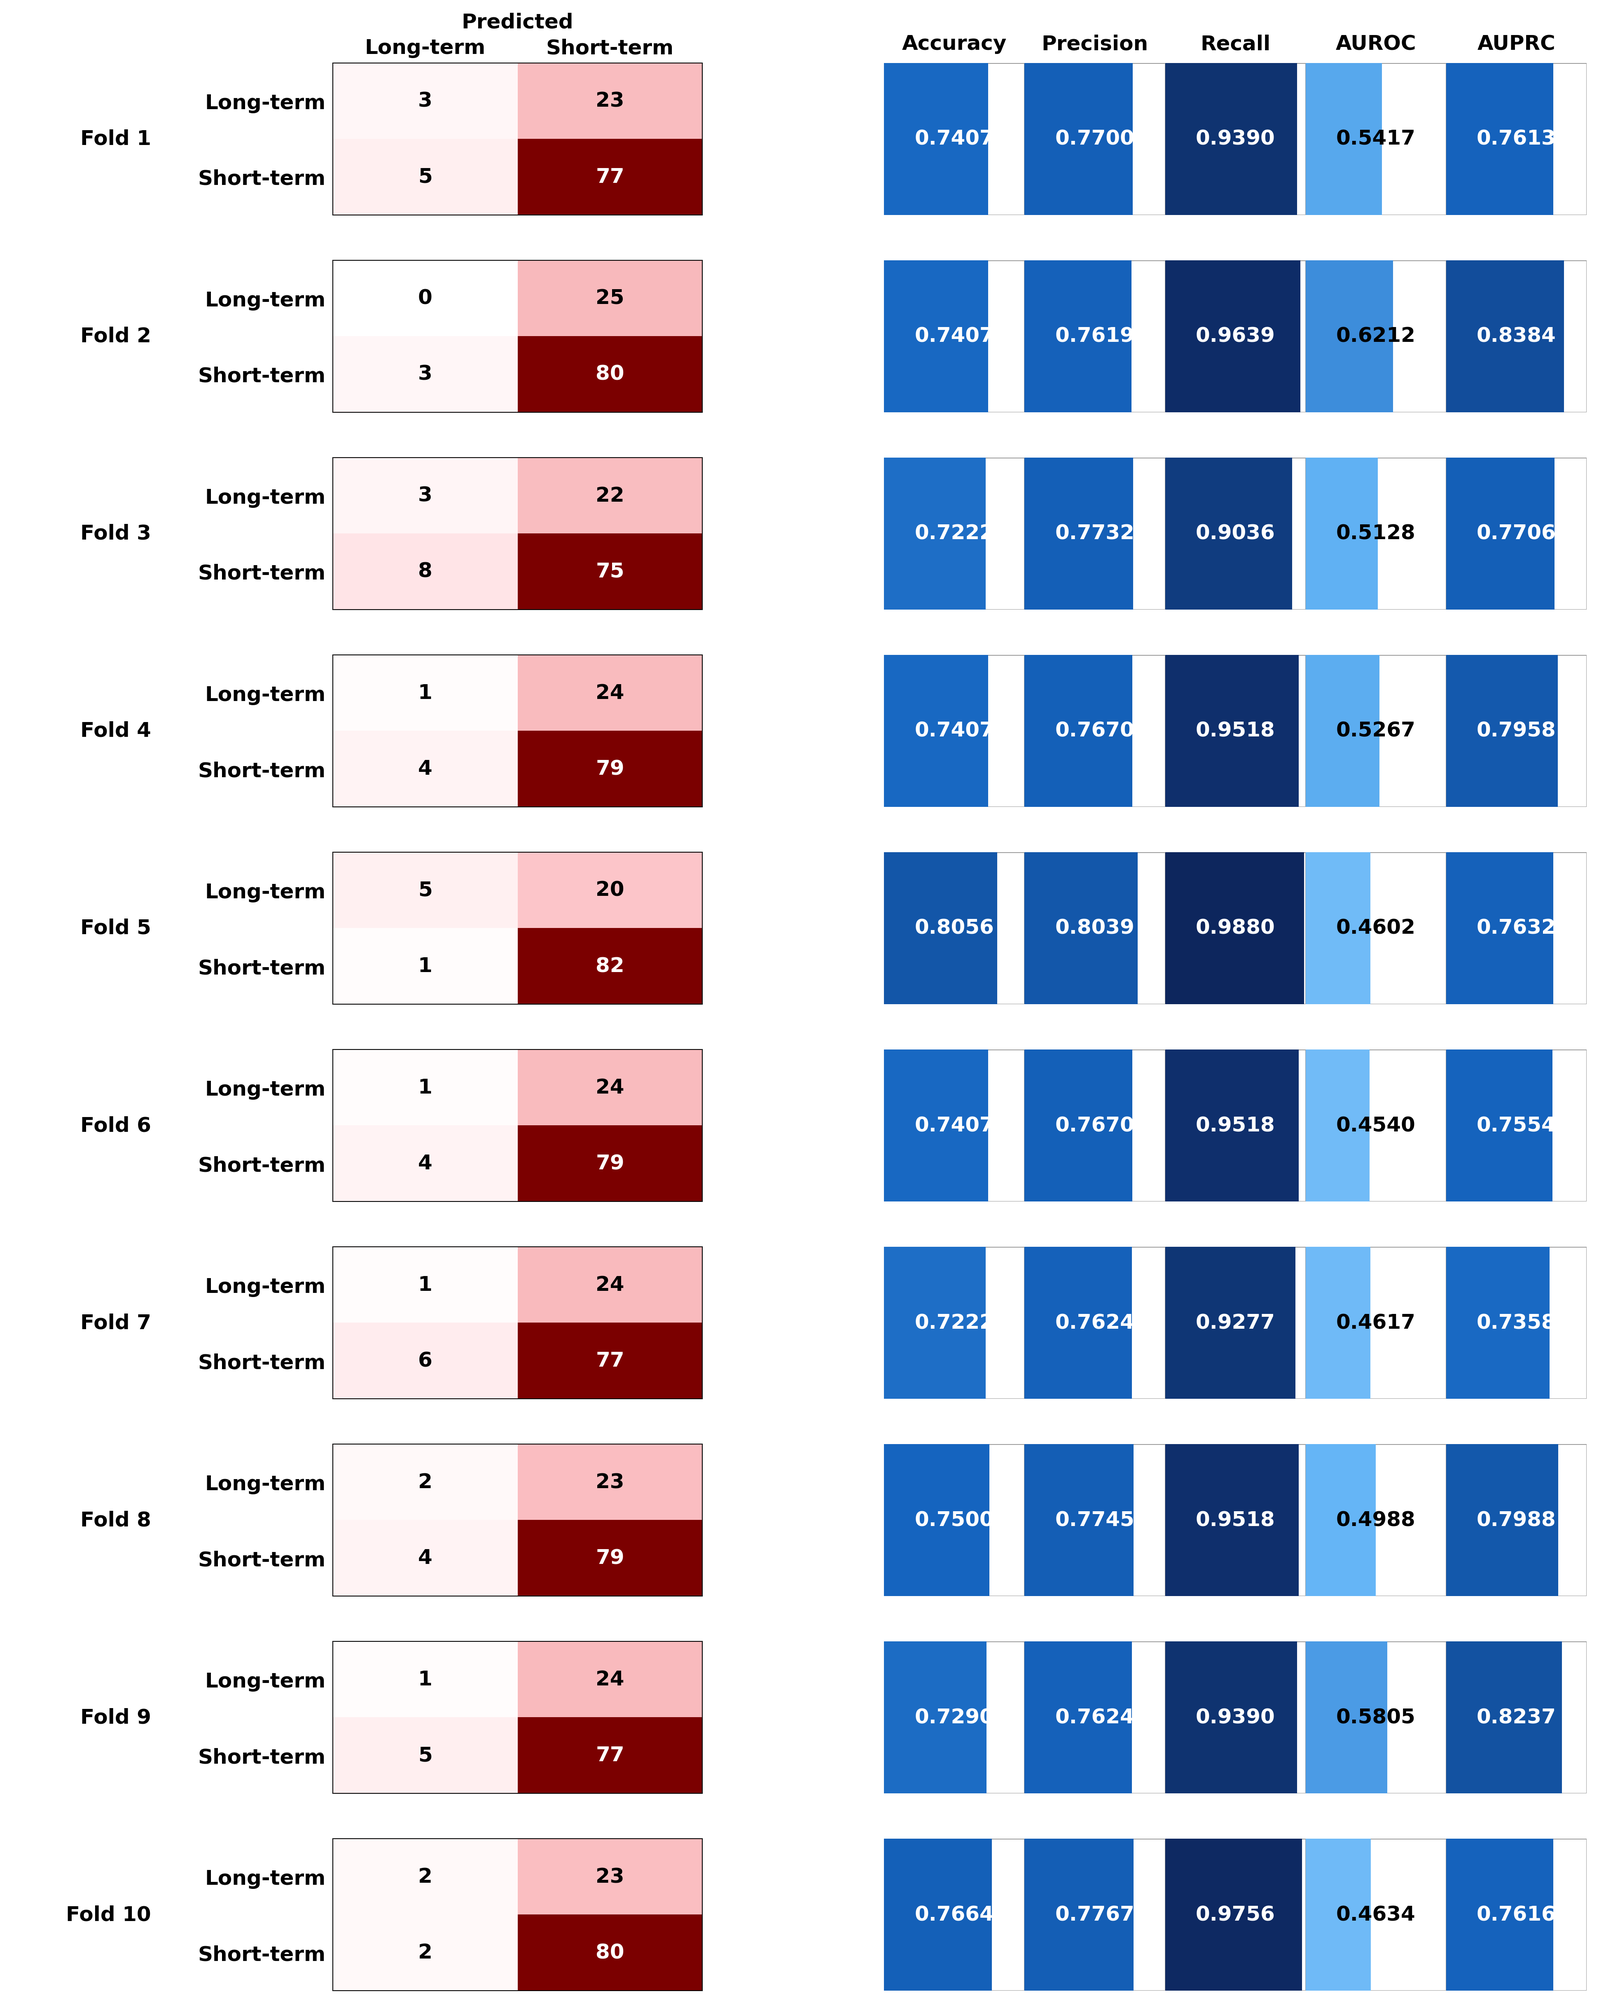
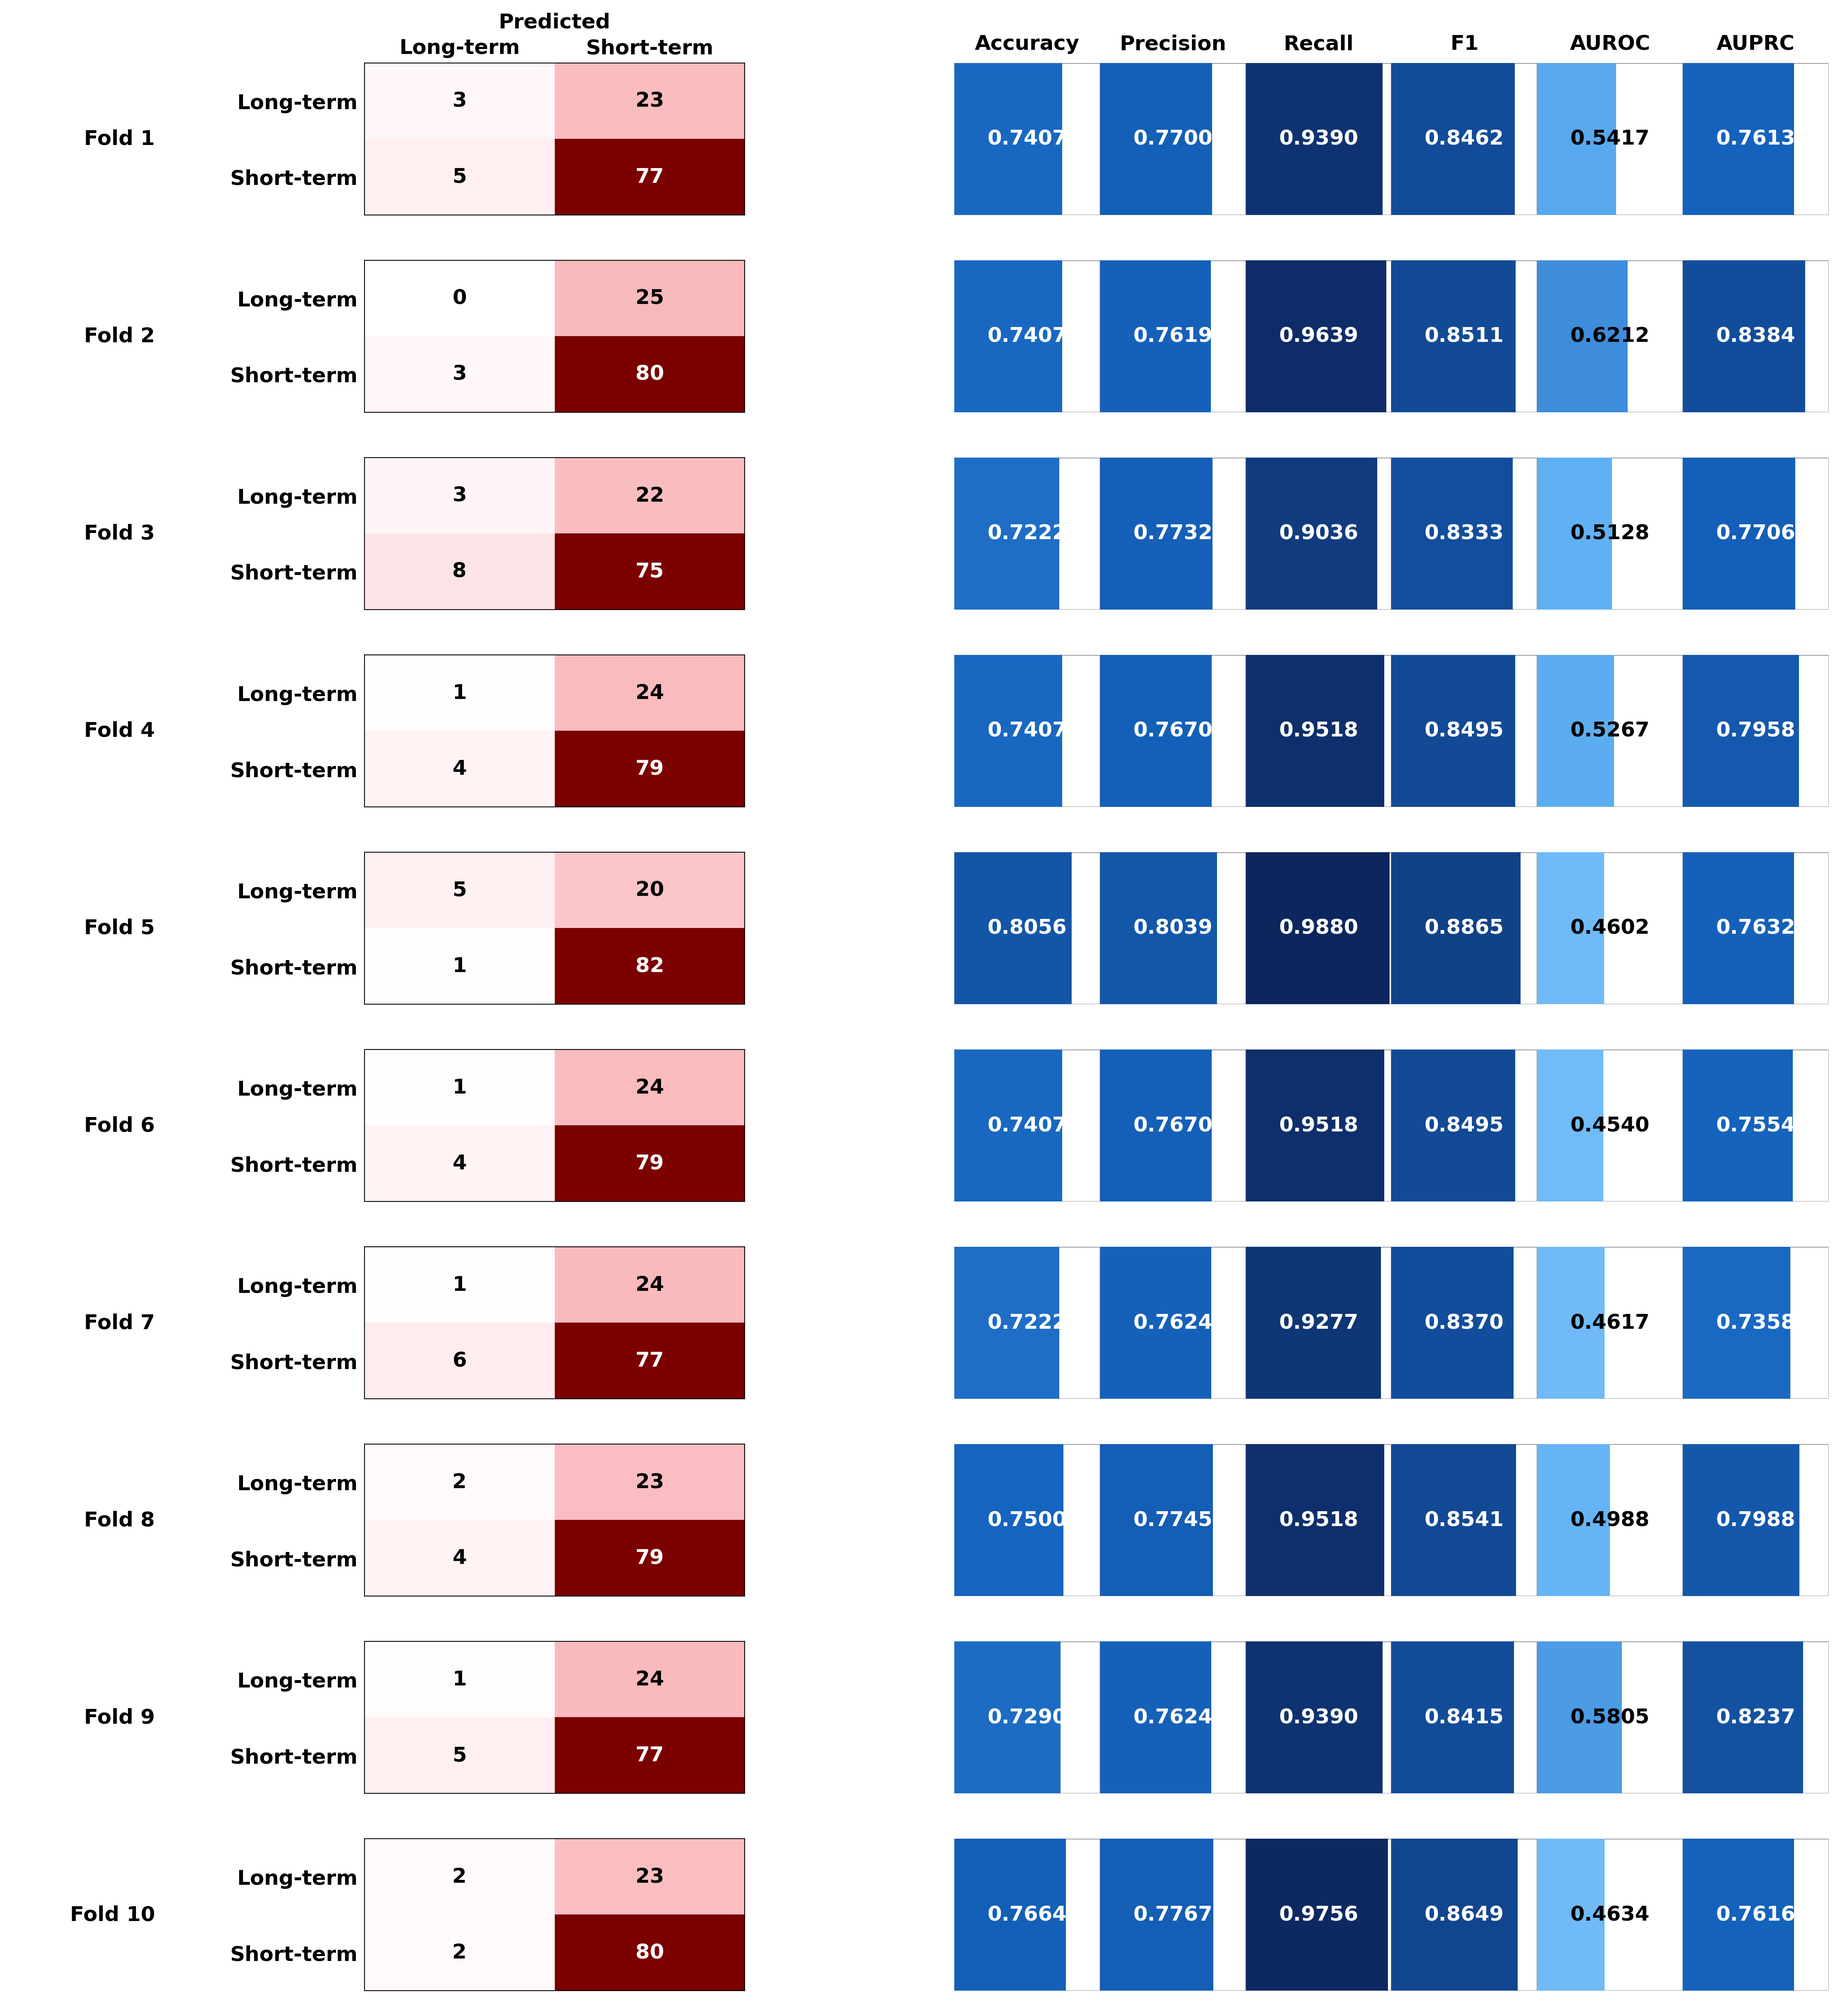
Add F1 score to per-fold CM figure, widen to 15in for 6 metrics

diff --git a/Objective_Functions_Ablations/figures/plot_cm_poly_svm_mse_kl.py b/Objective_Functions_Ablations/figures/plot_cm_poly_svm_mse_kl.py
@@ -59,8 +59,8 @@ MET_CMAP = LinearSegmentedColormap.from_list(
      (1.00, "#0D2358")],
 )
 
-MET_COLS    = ["accuracy", "precision", "recall", "roc_auc", "auprc"]
-MET_HDRS    = ["Accuracy", "Precision", "Recall", "AUROC", "AUPRC"]
+MET_COLS    = ["accuracy", "precision", "recall", "f1", "roc_auc", "auprc"]
+MET_HDRS    = ["Accuracy", "Precision", "Recall", "F1", "AUROC", "AUPRC"]
 CLASS_NAMES = ["Long-term", "Short-term"]
 FONT        = 12          # universal label/text font size
 FONT_KW     = "bold"      # universal font weight
@@ -86,7 +86,7 @@ def _draw_fold_row(fig, gs_row, fold_num, tn, fp, fn, tp,
     """
     inner = gridspec.GridSpecFromSubplotSpec(
         1, 3, subplot_spec=gs_row,
-        width_ratios=[0.75, 2.0, 3.8],
+        width_ratios=[0.75, 2.0, 4.6],
         wspace=0.45,
     )
 
@@ -217,7 +217,7 @@ def main():
 
     # ── figure layout ─────────────────────────────────────────────────────
     ROW_H = 1.55
-    FIG_W = 13.0
+    FIG_W = 15.0
     FIG_H = ROW_H * n_folds + 0.50   # extra headroom for top metric headers
 
     fig = plt.figure(figsize=(FIG_W, FIG_H), dpi=300)
